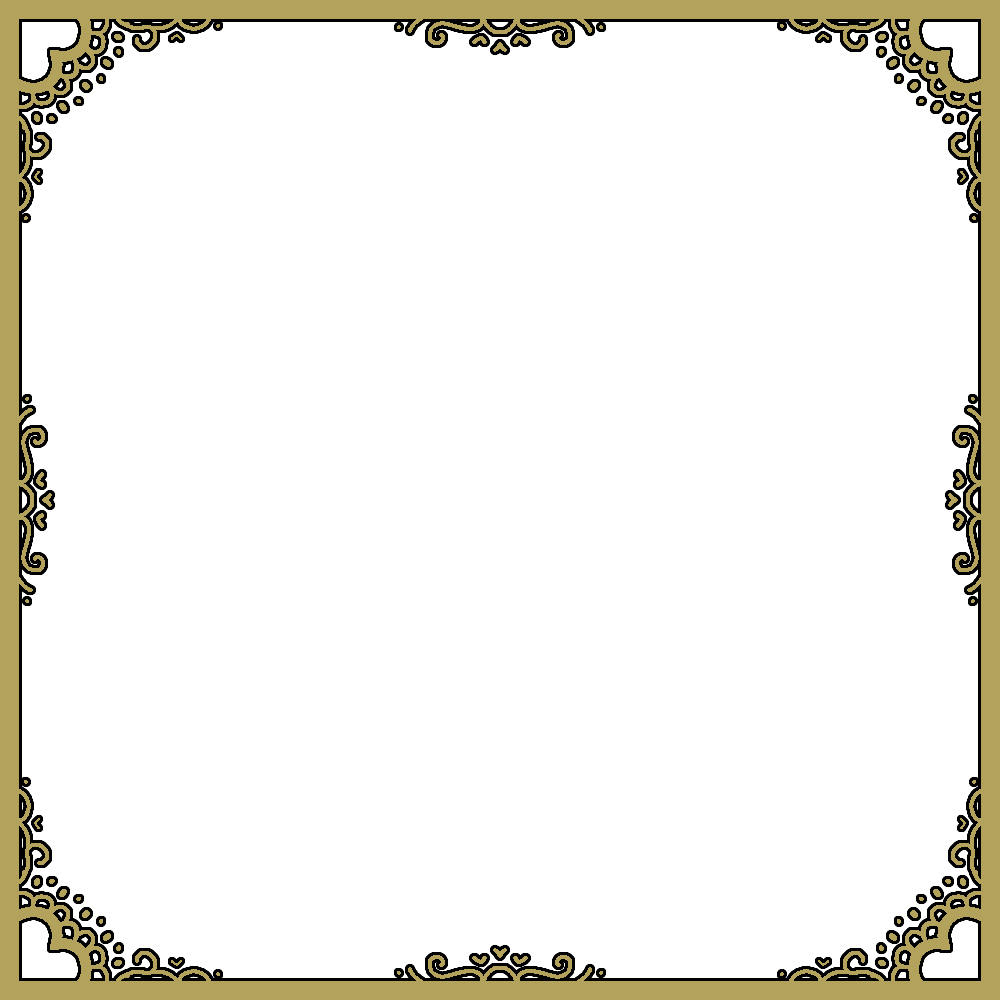
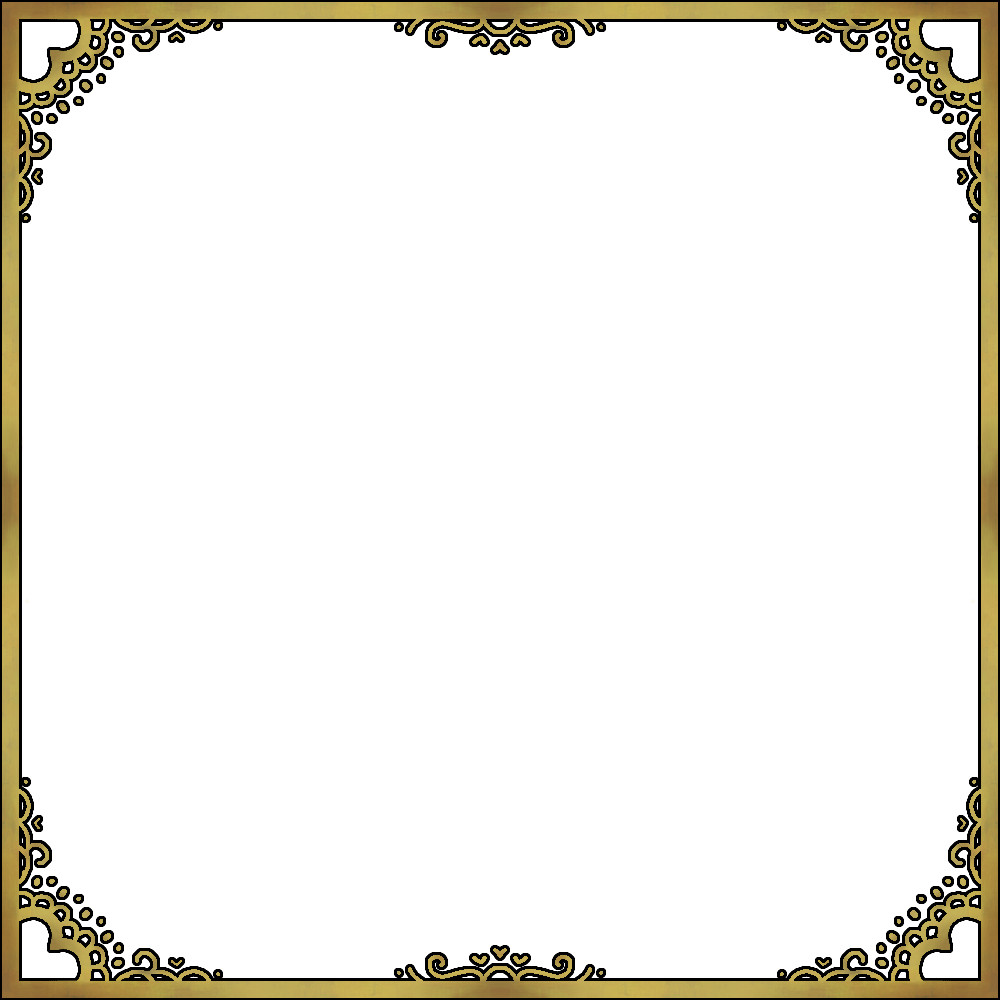
more fixes

diff --git a/style.css b/style.css
@@ -101,9 +101,9 @@ h1, h2, h3, h4, .faction-desc, .entity-desc {
     width: 100%;
     
     border-style: solid;
-    border-width: 60px;
+    border-width: 60px; 
     border-image-source: url('assets/UI/mainframe.png');
-    border-image-slice: 150 fill;
+    border-image-slice: 150 fill; 
     border-image-repeat: round;
     
     padding: 10px 40px 40px 40px; 
@@ -248,41 +248,52 @@ h1, h2, h3, h4, .faction-desc, .entity-desc {
     padding: 30px; 
 }
 
-.leader-portrait-large {
+/* --- OVERLAPPING PORTRAIT WRAPPER --- */
+.leader-portrait-wrapper {
     position: absolute;
     left: 20px;
     top: 50%;
     transform: translateY(-50%);
     width: 190px;
     height: 190px;
-    object-fit: cover;
-    cursor: pointer;
     z-index: 2;
-
-    border-style: solid;
-    border-width: 15px; 
-    border-image-source: url('assets/UI/portraitframe.png');
-    border-image-slice: 15 fill; 
-    padding: 5px;
-    
-    box-shadow: inset 0 0 30px 10px rgba(90, 0, 0, 0.7); 
-    
+    cursor: pointer;
     transition: filter 0.2s ease;
 }
 
-.leader-portrait-large:hover { 
-    filter: brightness(1.3); 
+.leader-portrait-wrapper:hover {
+    filter: brightness(1.3);
+}
+
+.leader-portrait-img {
+    width: 100%;
+    height: 100%;
+    object-fit: cover;
+    display: block;
+    z-index: 1;
+}
+
+/* Frame overlay pulled slightly outward to overlap the inner art */
+.leader-portrait-wrapper::after {
+    content: '';
+    position: absolute;
+    top: -10px; left: -10px; right: -10px; bottom: -10px;
+    border-style: solid;
+    border-width: 15px; 
+    border-image-source: url('assets/UI/portraitframe.png');
+    border-image-slice: 15;
+    pointer-events: none; /* Allows clicks to hit the wrapper below */
+    z-index: 2;
 }
 
 .leader-spacer {
-    width: 180px;
+    width: 240px;
     flex-shrink: 0;
 }
 
 @media (max-width: 650px) {
     .leader-combo-box { padding-top: 180px; }
-    .leader-portrait-large { left: 50%; top: 20px; transform: translateX(-50%); }
-    .leader-portrait-large:hover { filter: brightness(1.3); }
+    .leader-portrait-wrapper { left: 50%; top: 30px; transform: translateX(-50%); }
     .leader-spacer { display: none; }
 }
 
@@ -454,11 +465,36 @@ h1, h2, h3, h4, .faction-desc, .entity-desc {
     display: flex; justify-content: center; align-items: center;
     z-index: 1000; cursor: zoom-out;
 }
-#lightbox-img {
-    max-width: 90%; max-height: 90%; border-radius: 8px;
-    filter: drop-shadow(0 0 30px rgba(220, 20, 60, 0.4));
+
+#lightbox-wrapper {
+    position: relative;
+    display: inline-block;
+    max-width: 85vw;
+    max-height: 85vh;
     animation: zoomIn 0.2s ease-out;
 }
+
+#lightbox-img {
+    display: block;
+    max-width: 85vw;
+    max-height: 85vh;
+    object-fit: cover;
+    position: relative;
+    z-index: 1;
+}
+
+#lightbox-wrapper::after {
+    content: '';
+    position: absolute;
+    top: -15px; left: -15px; right: -15px; bottom: -15px; 
+    border-style: solid;
+    border-width: 25px;
+    border-image-source: url('assets/UI/portraitframe.png');
+    border-image-slice: 15;
+    pointer-events: none;
+    z-index: 2;
+}
+
 @keyframes zoomIn {
     from { transform: scale(0.8); opacity: 0; }
     to { transform: scale(1); opacity: 1; }

diff --git a/app.js b/app.js
@@ -66,7 +66,7 @@ function populateTabs(faction, subFactions, objectives, individuals, championNam
     
     const uniqueFactions = [...new Set(allFactions.filter(f => f && f.trim() !== '' && f.toLowerCase() !== 'unknown' && f.toLowerCase() !== 'n/a'))];
 
-    // 1. FACTION INFO TAB
+    // FACTION INFO TAB
     document.getElementById("tab-faction").innerHTML = `
         <div class="faction-hero">
             <h3>${formatData(faction['Faction Name'])}</h3>
@@ -74,11 +74,12 @@ function populateTabs(faction, subFactions, objectives, individuals, championNam
         </div>
         
         <div class="leader-combo-box">
-            <div class="leader-portrait-frame">
-                <img src="${leaderImg}" alt="Leader Art" class="leader-portrait-large" onclick="openLightbox(this.src)" onerror="this.onerror=null; this.src='assets/champion_art/Placeholder_12.png';">
+            
+            <div class="leader-portrait-wrapper" onclick="openLightbox('${leaderImg}')">
+                <img src="${leaderImg}" alt="Leader Art" class="leader-portrait-img" onerror="this.onerror=null; this.src='assets/champion_art/Placeholder_12.png';">
             </div>
             
-            <div class="leader-info-block">
+            <div class="leader-info-card">
                 <div class="leader-title-wrap">
                     <span class="stat-label">Faction Leader</span>
                     <h4>${formatData(faction['Leader Name'])}</h4>
@@ -116,7 +117,7 @@ function populateTabs(faction, subFactions, objectives, individuals, championNam
         </div>
     `;
 
-    // 2. SUB-FACTIONS TAB (Kept fully open)
+    // SUB-FACTIONS TAB
     let subHtml = '<div class="entity-grid">';
     if (subFactions.length === 0) {
         subHtml += "<p class='ghost-text' style='grid-column: 1 / -1;'>No sub-factions recorded.</p>";
@@ -139,7 +140,7 @@ function populateTabs(faction, subFactions, objectives, individuals, championNam
     subHtml += '</div>';
     document.getElementById("tab-subfactions").innerHTML = subHtml;
 
-    // 3. OBJECTIVES TAB (Description moved inside expansion)
+    // OBJECTIVES TAB
     let objHtml = '';
     if (objectives.length === 0) {
         objHtml += "<div class='entity-grid'><p class='ghost-text' style='grid-column: 1 / -1;'>No active objectives recorded.</p></div>";
@@ -179,7 +180,7 @@ function populateTabs(faction, subFactions, objectives, individuals, championNam
     }
     document.getElementById("tab-objectives").innerHTML = objHtml;
 
-    // 4. INDIVIDUALS TAB (Description moved inside expansion)
+    // 4. INDIVIDUALS TAB
     let indHtml = '';
     if (individuals.length === 0) {
         indHtml += "<div class='entity-grid'><p class='ghost-text' style='grid-column: 1 / -1;'>No notable individuals recorded.</p></div>";

diff --git a/index.html b/index.html
@@ -10,7 +10,6 @@
     <script src="https://cdnjs.cloudflare.com/ajax/libs/PapaParse/5.3.2/papaparse.min.js"></script>
 </head>
 <body class="theme-xeryos">
-<body class="theme-xeryos">
 
     <button id="return-btn" class="fixed-return-btn hidden" onclick="returnToGrid()">&#8592; Return</button>
 
@@ -46,7 +45,7 @@
                     <img id="detail-header-image-right" class="header-art-img flipped" src="" alt="Seal Right" onclick="openLightbox(this.src)">
                 </div>
 
-                <div class="grimoire-content">
+                <div class="manuscript-content">
                     <div id="tab-faction" class="tab-content active"></div>
                     <div id="tab-subfactions" class="tab-content"></div>
                     <div id="tab-objectives" class="tab-content"></div>
@@ -64,8 +63,11 @@
         </div>
     </section>
 
+    <!-- Wrapped Lightbox Content -->
     <div id="lightbox" class="hidden" onclick="closeLightbox()">
-        <img id="lightbox-img" src="" alt="Full Size Art">
+        <div id="lightbox-wrapper">
+            <img id="lightbox-img" src="" alt="Full Size Art">
+        </div>
     </div>
 
     <script src="app.js"></script>
